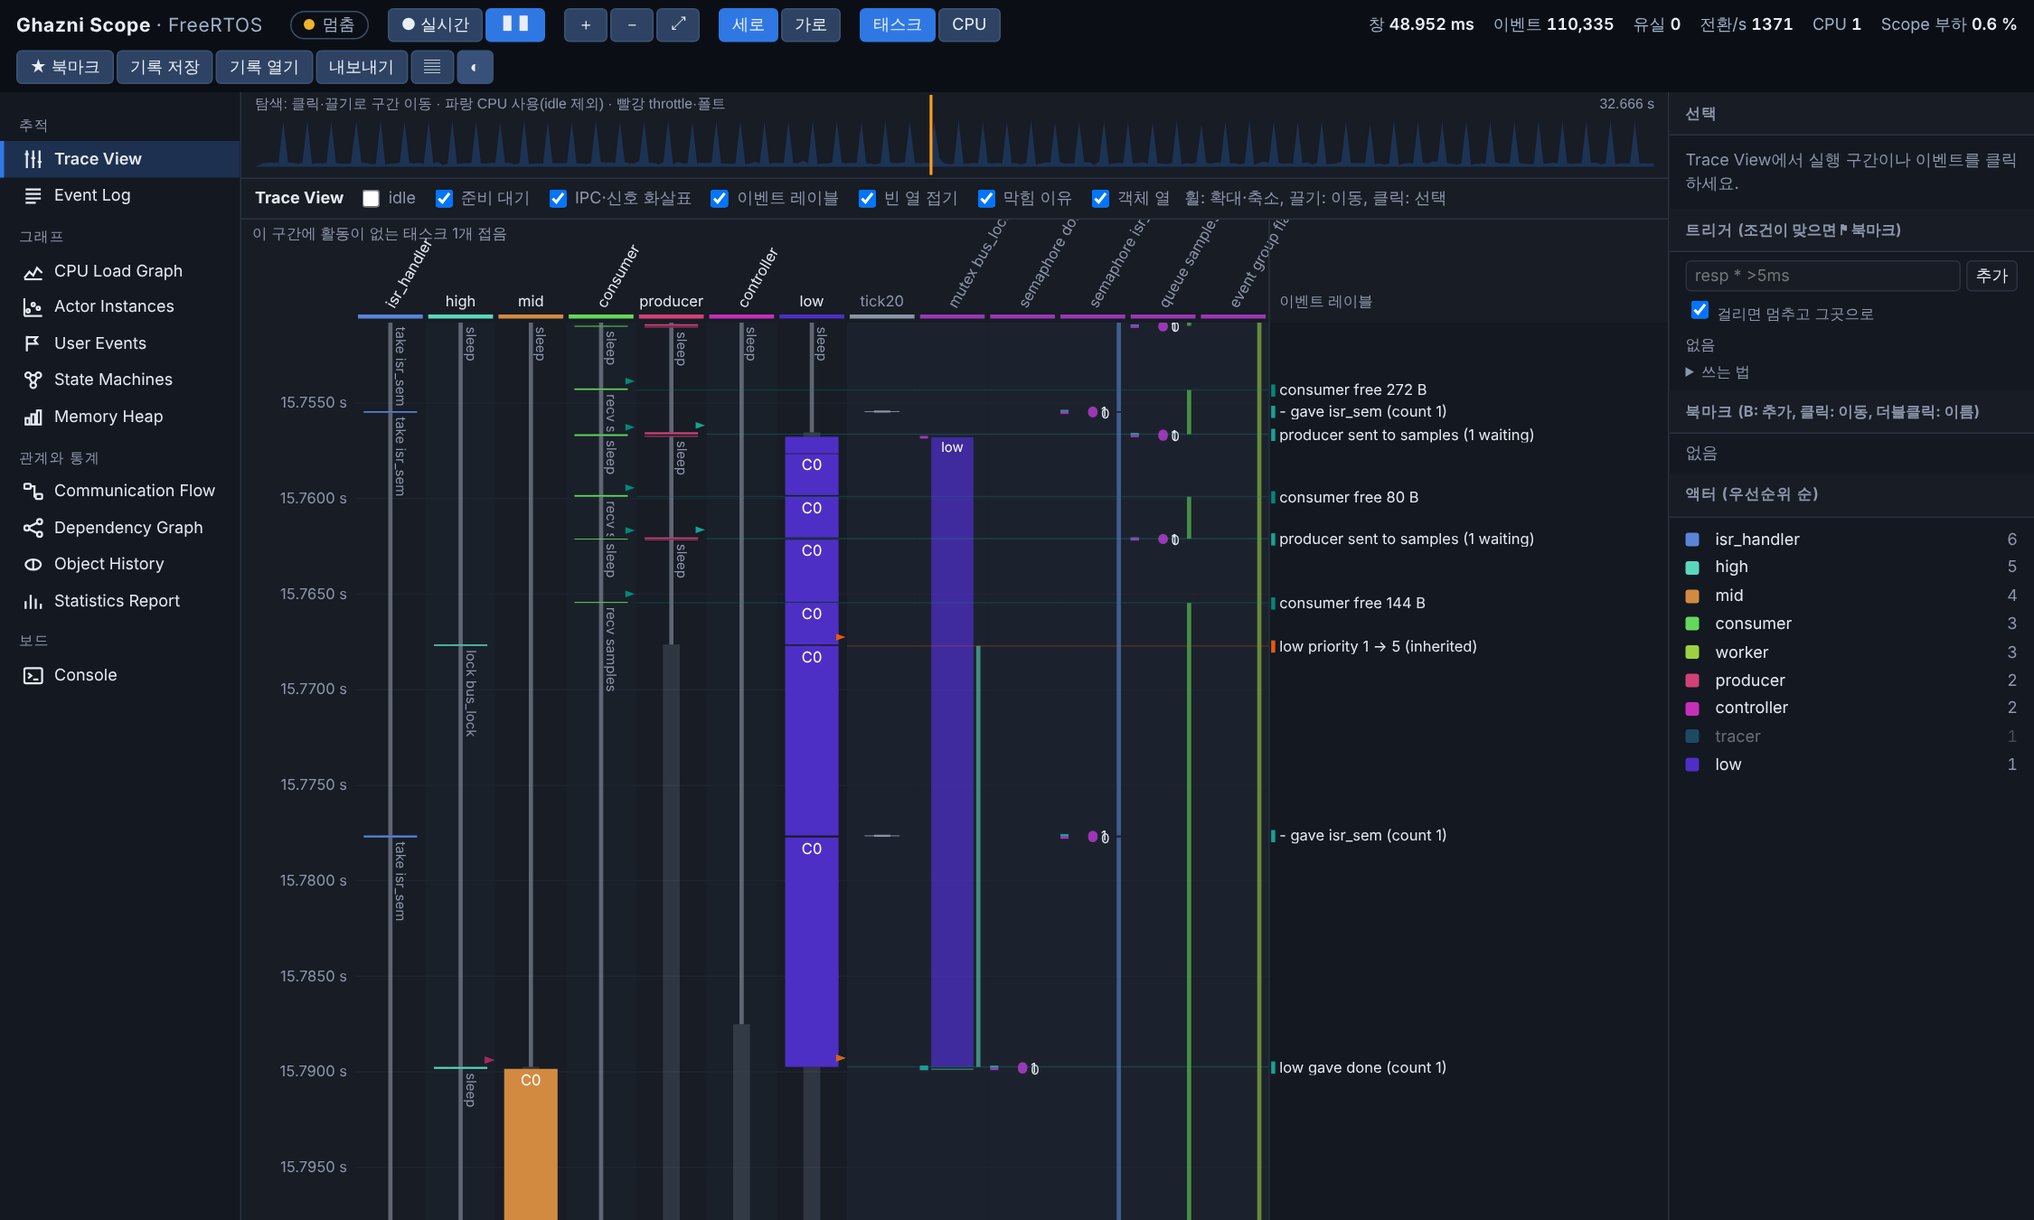
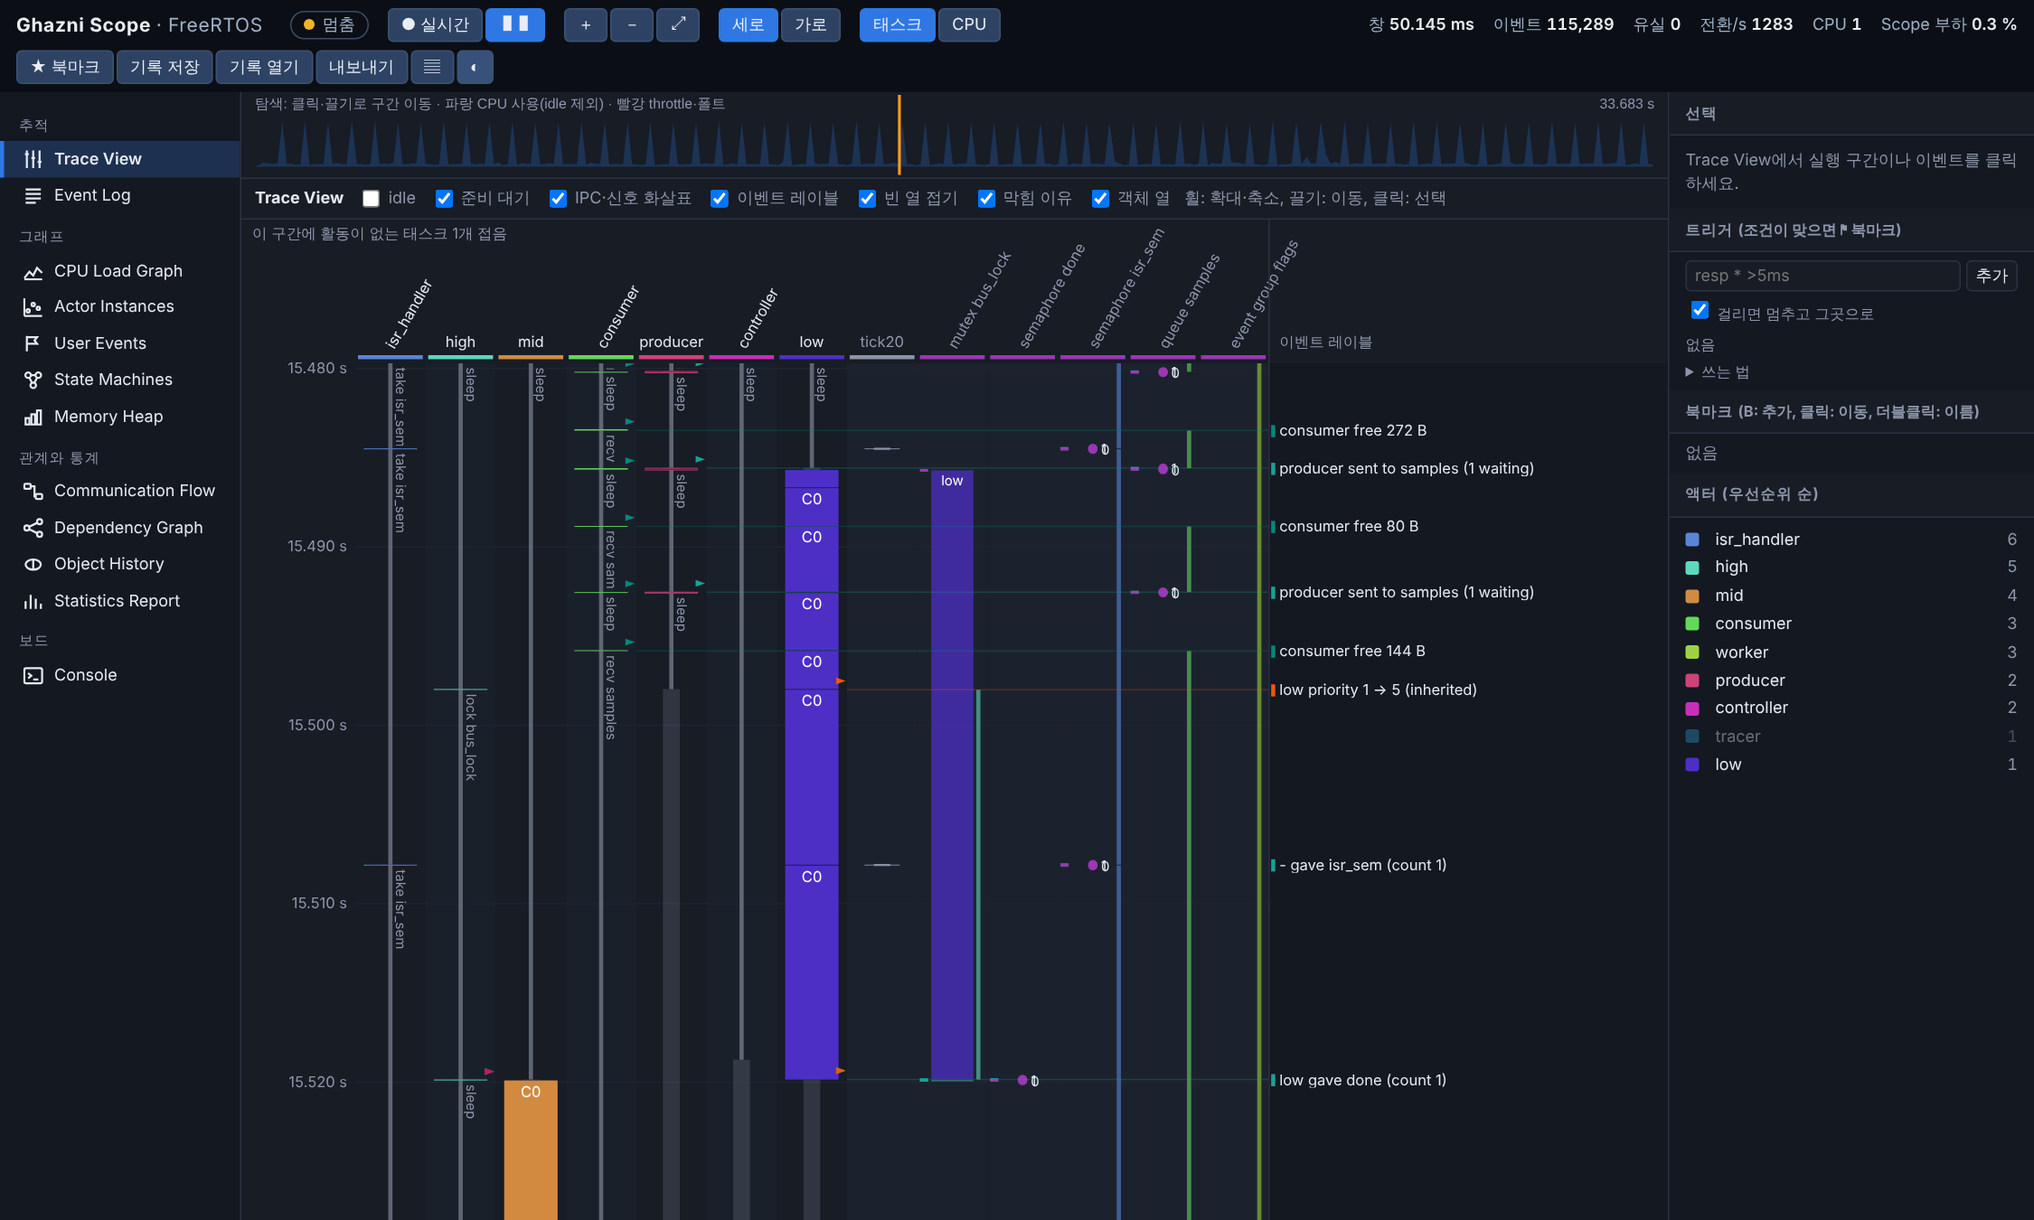
Trace header fits the longest name; heap graph without start-up allocations; browser test in CI (0.2.1)
- Trace View: names written at an angle (tasks, interrupts, objects) were
  cut off at the top; the header now grows to the longest one (up to
  170 px)
- Memory Heap: allocations outside tasks (stacks and queues made before
  the scheduler) are left out of the graph by default, so the tasks' own
  small allocations show; a check box brings them back, tables unchanged
- Dependency Graph text per system
- tests/test_ui.js (Playwright): every view draws without a JavaScript
  error, layouts and options switch, the angled names fit, a trigger
  hits, no Ghazni-only text on a FreeRTOS stream; fails on the previous
  page (header). CI runs it on the checkout and on the installed package.
- screenshots retaken; captions without per-run numbers

Claude-Session: https://claude.ai/code/session_019Vy9gdUpGEKKDr7Rfd53kq

diff --git a/ghazni_scope/web/index.html b/ghazni_scope/web/index.html
@@ -223,13 +223,14 @@ svg text { font: 11px -apple-system, "Segoe UI", "Noto Sans KR", sans-serif; }
         <div class="scroll" style="display:grid;grid-template-columns:1fr 1fr;gap:0 12px;align-content:start"><table id="smTab"></table><table id="smTr"></table></div></div>
     </section>
     <section class="view" id="v-heap">
-      <div class="vbar"><b>Memory Heap</b> <span id="hHeap">할당기가 알린 할당·해제: 사용량 변화와 아직 해제되지 않은 블록</span> <span class="hint">처음엔 마지막 활동 구간. 끌어서 확대, 더블클릭: 전체 기록 ↔ 마지막 활동</span><button class="csv" data-csv="heapTab,heapLive,heapWarn">CSV</button></div>
+      <div class="vbar"><b>Memory Heap</b> <span id="hHeap">할당기가 알린 할당·해제: 사용량 변화와 아직 해제되지 않은 블록</span> <span class="hint">처음엔 마지막 활동 구간. 끌어서 확대, 더블클릭: 전체 기록 ↔ 마지막 활동</span>
+        <label title="스케줄러 시작 전·커널의 할당(대개 태스크 스택과 큐)은 크고 변하지 않아서 태스크의 작은 할당을 바닥에 눌러 버립니다. 표에는 그대로 나옵니다"><input type="checkbox" id="heapOut" checked> 태스크 밖 할당은 그래프에서 빼기</label><button class="csv" data-csv="heapTab,heapLive,heapWarn">CSV</button></div>
       <div class="vbody" style="display:grid;grid-template-rows:minmax(120px,48%) 1fr">
         <div style="position:relative"><canvas id="cHeap"></canvas></div>
         <div class="scroll" style="display:grid;grid-template-columns:1fr 1.2fr;gap:0 12px;align-content:start"><table id="heapTab" style="align-self:start"></table><table id="heapLive"></table><table id="heapWarn" style="grid-column:1/-1;margin-top:10px"></table></div></div>
     </section>
     <section class="view" id="v-deps">
-      <div class="vbar"><b>Dependency Graph</b> <span>태스크가 누구를 기다리나: CALL(클라이언트 → 서버, 응답까지 기다린 시간)과 signal(보낸 태스크 → 깨어난 태스크). 선 굵기 = 횟수</span></div>
+      <div class="vbar"><b>Dependency Graph</b> <span id="hDeps">태스크가 누구를 깨우고 누구를 기다리나. 선 굵기 = 횟수</span></div>
       <div class="vbody scroll"><svg id="sDeps" width="100%"></svg></div>
     </section>
     <section class="view" id="v-comm">
@@ -310,12 +311,14 @@ function osText() {
   return D.os === "Ghazni" ? {
     user: '태스크의 <code>ghazni_trace_user(channel, value)</code>(값), <code>ghazni_trace_printf</code>(글), 셸 <code>mark</code>',
     sm: '태스크의 <code>ghazni_trace_state(machine, "STATE")</code>: 상태가 언제 바뀌었고 얼마나 머물렀는지',
+    deps: '태스크가 누구를 기다리나: CALL(클라이언트 → 서버, 응답까지 기다린 시간)과 signal(보낸 태스크 → 깨어난 태스크). 선 굵기 = 횟수',
     heap: '할당기가 알린 할당·해제(<code>ghazni_trace_heap</code>, 미들웨어 <code>malloc</code>): 사용량 변화와 아직 해제되지 않은 블록',
     cmd: "셸 명령 (예: ps, hog, bench 1000, mark 1 42)",
     userEmpty: "(셸: mark 1 42)", smEmpty: "(셸: tdemo)", heapEmpty: "(셸: tdemo, 또는 미들웨어 태스크)",
   } : {
     user: '태스크의 <code>scope_user(channel, value)</code>(값), <code>scope_printf</code>(글)',
     sm: '태스크의 <code>scope_state(machine, "STATE")</code>: 상태가 언제 바뀌었고 얼마나 머물렀는지',
+    deps: '태스크가 누구를 깨우나: 큐에 보내거나 세마포어·mutex·이벤트 그룹을 주어서 기다리던 태스크를 깨운 횟수(보낸 태스크 → 깨어난 태스크). 선 굵기 = 횟수',
     heap: '<code>pvPortMalloc</code> / <code>vPortFree</code>: 사용량 변화와 아직 해제되지 않은 블록. "(태스크 밖)" = 스케줄러 시작 전이나 인터럽트에서 할당',
     cmd: "타깃으로 보낼 글 (프로그램의 표준 입력·UART)",
     userEmpty: "(scope_user)", smEmpty: "(scope_state)", heapEmpty: "(pvPortMalloc)",
@@ -323,7 +326,7 @@ function osText() {
 }
 function osTexts() {
   const o = osText();
-  $("hUser").innerHTML = o.user; $("hSm").innerHTML = o.sm; $("hHeap").innerHTML = o.heap; $("cmd").placeholder = o.cmd;
+  $("hUser").innerHTML = o.user; $("hSm").innerHTML = o.sm; $("hDeps").innerHTML = o.deps; $("hHeap").innerHTML = o.heap; $("cmd").placeholder = o.cmd;
 }
 const heapName = id => id === 0xFE ? "(태스크 밖)" : tname(id);
 function objLabel(k, i) {               // "mutex pi_lock", "semaphore pi_done", "queue samples", "ep pong"
@@ -529,7 +532,7 @@ function drawTrace() {
     if (few.length) { drawTrace.folded = cols.length - few.length; cols = few; } else drawTrace.folded = 0;
   } else drawTrace.folded = 0;
   const showLabels = vert && $("oLabels").checked;
-  const RULER = vert ? 84 : 110, HEAD = vert ? 76 : 40, LAB = showLabels ? Math.min(300, Math.max(180, w * 0.28)) : 0;
+  const RULER = vert ? 84 : 110, LAB = showLabels ? Math.min(300, Math.max(180, w * 0.28)) : 0;
   // one column per interrupt seen in the window (the kernel timer included)
   const irqSet = new Set();
   for (let i = lowerBound(D.isr, 0, win.t0 - 0.05); i < D.isr.length && D.isr[i][0] <= win.t1; i++) irqSet.add(D.isr[i][2]);
@@ -561,9 +564,20 @@ function drawTrace() {
   const objBase = cols.length + irqIds.length;
   const objCol = new Map(objs.map((o, k) => [o.k + o.i, objBase + k]));
   const nCols = cols.length + irqIds.length + objs.length;
+  // vertical: a name wider than its column is written at 60 degrees; the header is as
+  // tall as the longest such name needs (up to 170 px), so none is cut off
+  let HEAD = vert ? 76 : 40;
+  const across0 = vert ? w - RULER - LAB : h - HEAD;
+  const cw = Math.max(8, Math.min(vert ? 96 : 30, across0 / Math.max(1, nCols)));
+  if (vert) {
+    const names = cols.map(id => byCpu ? "CPU " + id : tname(id))
+      .concat(irqIds.map(id => id < 0 ? "IRQ" : ((D.objects.irqs || {})[id] || "IRQ " + id)), objs.map(o => objLabel(o.k, o.i)));
+    let tall = 0;
+    for (const n of names) { const wd = g.measureText(n).width; if (wd > cw - 4) tall = Math.max(tall, wd * 0.87 + 18); }
+    HEAD = Math.round(Math.min(170, Math.max(76, tall)));
+  }
   const along = vert ? h - HEAD : w - RULER - 10;       // time axis length in px
   const across = vert ? w - RULER - LAB : h - HEAD;
-  const cw = Math.max(8, Math.min(vert ? 96 : 30, across / Math.max(1, nCols)));
   const T = t => (t - win.t0) / (win.t1 - win.t0) * along;
   const tOf = px => win.t0 + px / along * (win.t1 - win.t0);
   traceGeom = { RULER, HEAD, cw, along, cols, tOf, LAB, w, nCols };
@@ -1097,13 +1111,15 @@ function drawSm() {
 function drawHeap() {
   const { g, w, h } = fit($("cHeap"));
   g.clearRect(0, 0, w, h);
-  const tasks = [...new Set(D.heap.map(x => x[1]))];
+  let tasks = [...new Set(D.heap.map(x => x[1]))];
+  if ($("heapOut").checked && tasks.some(t => t !== 0xFE)) tasks = tasks.filter(t => t !== 0xFE);
+  const shown = new Set(tasks), hv = D.heap.filter(x => shown.has(x[1]));
   const L = 70, B = 24, T0 = 16;
-  const first = D.heap.length ? D.heap[0][0] : 0, last = D.heap.length ? D.heap[D.heap.length - 1][0] : 0;
+  const first = hv.length ? hv[0][0] : 0, last = hv.length ? hv[hv.length - 1][0] : 0;
   let tMin = first - (last - first) * 0.03, tMax = Math.max(last + (last - first) * 0.15, tMin + 1e-3);
-  if (zoomR.heap === null) [tMin, tMax] = burstRange(D.heap.map(x => x[0]));
+  if (zoomR.heap === null) [tMin, tMax] = burstRange(hv.map(x => x[0]));
   else if (Array.isArray(zoomR.heap)) [tMin, tMax] = zoomR.heap;
-  let vmax = 1; for (const x of D.heap) vmax = Math.max(vmax, x[5]);
+  let vmax = 1; for (const x of hv) vmax = Math.max(vmax, x[5]);
   vmax *= 1.1;
   const X = t => L + (t - tMin) / (tMax - tMin) * (w - L - 14), Y = v => h - B - v / vmax * (h - B - T0);
   drawHeap.geom = { L, R: w - 14, tMin, tMax };
@@ -1370,7 +1386,7 @@ $("bCpus").onclick = () => { byCpu = true; $("bCpus").classList.add("on"); $("bT
 $("bDetail").onclick = () => { $("app").classList.toggle("nodetail"); dirty(); };
 $("bTheme").onclick = () => { for (const k in cssCache) delete cssCache[k]; const r = document.documentElement, d = r.dataset.theme === "dark" ||
   (!r.dataset.theme && matchMedia("(prefers-color-scheme: dark)").matches); r.dataset.theme = d ? "light" : "dark"; dirty(); };
-["oIdle", "oReady", "oComm", "oLabels", "instMetric", "instLog", "instWin", "logWin", "objSel", "smWin", "oActive", "oBlk", "oObj"].forEach(id => $(id).onchange = dirty);
+["oIdle", "oReady", "oComm", "oLabels", "instMetric", "instLog", "instWin", "logWin", "objSel", "smWin", "oActive", "oBlk", "oObj", "heapOut"].forEach(id => $(id).onchange = dirty);
 $("logFind").oninput = dirty;
 $("logScroll").onscroll = renderLog;
 $("legend").onclick = ev => { const d = ev.target.closest("[data-task]"); if (!d) return; const id = +d.dataset.task;
@@ -1575,7 +1591,7 @@ document.querySelectorAll("button.csv").forEach(b => b.onclick = () => {
 });
 
 // ------------------------------------------------------------------ settings kept in the browser
-const PREF_IDS = ["oIdle", "oReady", "oComm", "oLabels", "oActive", "oBlk", "oObj", "instLog", "instWin", "logWin", "smWin", "trigPause"];
+const PREF_IDS = ["oIdle", "oReady", "oComm", "oLabels", "oActive", "oBlk", "oObj", "heapOut", "instLog", "instWin", "logWin", "smWin", "trigPause"];
 function savePrefs() {
   try { localStorage.setItem("gzscope.prefs", JSON.stringify({
     checks: Object.fromEntries(PREF_IDS.map(id => [id, $(id).checked])), metric: $("instMetric").value,

diff --git a/tests/test_ui.js b/tests/test_ui.js
@@ -1,0 +1,108 @@
+// The browser page against a live FreeRTOS stream (examples/freertos-posix):
+// every view opens without a JavaScript error and draws something, the
+// layouts and options switch cleanly, and no text meant for Ghazni shows up
+// on a FreeRTOS stream.
+//   node tests/test_ui.js [demo]       (npm i playwright; npx playwright install chromium)
+// The tool: this checkout's package, or (SCOPE_INSTALLED=1) the installed command.
+const { chromium } = require('playwright');
+const { spawn } = require('child_process');
+const net = require('net');
+const path = require('path');
+
+const ROOT = path.resolve(__dirname, '..');
+const DEMO = process.argv[2] || path.join(ROOT, 'examples/freertos-posix/build/demo');
+let fails = 0;
+function check(name, ok, detail) {
+  console.log(`  [${ok ? 'PASS' : 'FAIL'}] ${name}${ok ? '' : ': ' + JSON.stringify(detail).slice(0, 400)}`);
+  if (!ok) fails++;
+}
+const freePort = () => new Promise(res => { const s = net.createServer().listen(0, () => { const p = s.address().port; s.close(() => res(p)); }); });
+const sleep = ms => new Promise(r => setTimeout(r, ms));
+
+(async () => {
+  const port = await freePort();
+  const installed = !!process.env.SCOPE_INSTALLED;
+  const cmd = installed ? 'ghazni-scope' : 'python3';
+  const args = (installed ? [] : ['-m', 'ghazni_scope']).concat(['--exec', DEMO, '--port', String(port), '--quiet']);
+  const env = Object.assign({}, process.env, installed ? {} : { PYTHONPATH: ROOT });
+  const tool = spawn(cmd, args, { env, stdio: 'ignore' });
+  console.log('=== web page (FreeRTOS on Linux, live) ===');
+  const browser = await chromium.launch();
+  try {
+    const page = await browser.newPage({ viewport: { width: 1400, height: 850 } });
+    const errors = [];
+    page.on('pageerror', e => errors.push(String(e)));
+    page.on('console', m => { if (m.type() === 'error') errors.push(m.text()); });
+    for (let i = 0; i < 50; i++) { try { await page.goto(`http://127.0.0.1:${port}/`); break; } catch (e) { await sleep(200); } }
+    await page.waitForFunction(() => typeof D !== "undefined" && D.events && D.events.length > 3000, null, { timeout: 30000 });
+    check('page loads, live stream arrives, title shows FreeRTOS',
+      await page.evaluate(() => document.getElementById('osName').textContent.includes('FreeRTOS')), null);
+
+    // a canvas that drew something: more than one colour in it
+    const inked = id => page.evaluate(id => {
+      const c = document.getElementById(id), g = c.getContext('2d');
+      if (!c.width || !c.height) return 0;
+      const d = g.getImageData(0, 0, c.width, c.height).data, seen = new Set();
+      for (let i = 0; i < d.length; i += 4 * 97) seen.add(d[i] << 16 | d[i + 1] << 8 | d[i + 2] | d[i + 3] << 24);
+      return seen.size;
+    }, id);
+    const rows = sel => page.evaluate(sel => document.querySelectorAll(sel).length, sel);
+    const views = [
+      ['trace', () => inked('cTrace'), n => n > 5],
+      ['log', () => rows('#logTab tr'), n => n > 10],
+      ['load', () => inked('cLoad'), n => n > 3],
+      ['inst', () => inked('cInst'), n => n > 3],
+      ['user', () => inked('cUser'), n => n > 3],
+      ['sm', () => inked('cSm'), n => n > 3],
+      ['heap', () => inked('cHeap'), n => n > 3],
+      ['deps', () => rows('#sDeps circle, #sDeps rect, #sDeps ellipse'), n => n >= 3],
+      ['comm', () => rows('#sComm ellipse'), n => n >= 5],
+      ['obj', () => rows('#objTab tr'), n => n > 5],
+      ['stats', () => rows('#statTab tr'), n => n > 8],
+      ['console', () => page.evaluate(() => document.getElementById('console').textContent.length), n => n > 10],
+    ];
+    await page.click('#bPause');
+    for (const [v, measure, ok] of views) {
+      await page.click(`nav a[data-v=${v}]`);
+      await sleep(700);
+      const n = await measure();
+      check(`view ${v}: drawn (${n}), no error`, ok(n) && !errors.length, { n, errors });
+    }
+    // layouts and options
+    await page.click('nav a[data-v=trace]');
+    for (const [btn, what] of [['#bHorz', 'horizontal'], ['#bVert', 'vertical'], ['#bCpus', 'columns = CPUs'],
+                               ['#bTasks', 'columns = tasks'], ['#bTheme', 'dark'], ['#bTheme', 'light'], ['#bFit', 'whole record']]) {
+      await page.click(btn); await sleep(400);
+      check(`trace: ${what}`, (await inked('cTrace')) > 5 && !errors.length, errors);
+    }
+    // the names above the columns fit in the header (none cut off at the top)
+    const head = await page.evaluate(() => {
+      const g = document.getElementById('cTrace').getContext('2d');
+      g.font = "11px -apple-system, Segoe UI, Noto Sans KR, sans-serif";
+      const { cw, HEAD } = traceGeom, names = Object.values(D.tasks).map(t => t.name)
+        .concat((D.objects.notifications || []).map((n, i) => objLabel('nt', i)));
+      const need = Math.max(...names.map(n => { const w = g.measureText(n).width; return w > cw - 4 ? w * 0.87 + 10 : 0; }));
+      return { HEAD, need };
+    });
+    check('trace: column names at an angle fit in the header', head.need <= head.HEAD, head);
+    await page.click('nav a[data-v=heap]');
+    await page.click('#heapOut'); await sleep(400);
+    check('heap: allocations outside tasks shown again', (await inked('cHeap')) > 3 && !errors.length, errors);
+    await page.click('#heapOut');
+    // trigger: added, hits counted, no error
+    await page.fill('#trigIn', 'isr * >0us'); await page.click('#trigAdd');
+    await page.click('#bLive'); await sleep(2500);
+    const hits = await page.evaluate(() => D.triggers.map(t => t.hits));
+    check('trigger added and hit', hits.length === 1 && hits[0] > 0 && !errors.length, { hits, errors });
+    // nothing meant for Ghazni on a FreeRTOS stream
+    const text = await page.evaluate(() => document.body.innerText + ' ' +
+      [...document.querySelectorAll('input[placeholder]')].map(i => i.placeholder).join(' '));
+    const ghazni = ['ghazni_trace', 'uart_drv', '셸:', 'ntfn ', 'notification '].filter(w => text.includes(w));
+    check('no Ghazni-only text on a FreeRTOS stream', ghazni.length === 0, ghazni);
+  } finally {
+    await browser.close();
+    tool.kill();
+  }
+  console.log(fails ? `${fails} FAILED` : 'ALL PASS');
+  process.exit(fails ? 1 : 0);
+})().catch(e => { console.error(e); process.exit(1); });

diff --git a/ghazni_scope/__init__.py b/ghazni_scope/__init__.py
@@ -1,2 +1,2 @@
 """Ghazni Scope: live RTOS trace viewer (Ghazni, FreeRTOS). MIT License."""
-__version__ = "0.2.0"
+__version__ = "0.2.1"

diff --git a/README.md b/README.md
@@ -111,6 +111,7 @@ third_party/          FreeRTOS-Kernel (서브모듈, V11.3.3, MIT)
 ```sh
 make test-host        # PC 도구만: 프레임 해석, 분석 모델, C 인코더와 Python 해석기가 맞는지
 make test             # + FreeRTOS를 Linux와 Cortex-M3(QEMU)에서 실제로 돌려 확인
+make test-ui          # 브라우저로 화면 12개를 열어 오류 없이 그려지는지 (node, playwright 필요)
 ```
 
 `tests/run_freertos.py`는 예제를 실제로 돌려 받은 스트림에서 다음을 확인합니다: 유실 0, 모든 태스크 이름, 객체 이름과 종류(큐 1, mutex 1, 세마포어 2, 이벤트 그룹 1), 막힌 이유(consumer는 큐, high는 mutex, worker는 이벤트 그룹, isr_handler는 세마포어), mutex를 잡은 태스크와 시간, 매 주기 우선순위 상속(1 → 5 → 1), 큐에 쌓인 개수, 세마포어 개수, 20 ms마다 들어오는 인터럽트와 처리 시간, printf 글·상태 기계·사용자 값, 힙, 스택 사용량. GitHub Actions가 푸시마다 돌리며, 저장소에서 바로 돌린 것과 `pip install`로 설치한 것 둘 다 시험합니다.

diff --git a/CHANGELOG.md b/CHANGELOG.md
@@ -1,5 +1,12 @@
 # 변경 이력
 
+## 0.2.1
+
+- Trace View: 비스듬히 쓴 열 이름(태스크, 인터럽트, 객체)이 잘리지 않게 머리 부분 높이를 가장 긴 이름에 맞춤
+- Memory Heap: 태스크 밖 할당(스케줄러 시작 전의 스택·큐)은 그래프에서 기본으로 뺌(체크 상자, 표에는 그대로). 태스크의 작은 할당이 보임
+- Dependency Graph 설명을 보고 있는 OS에 맞게
+- 시험: 브라우저 시험 `tests/test_ui.js`(Playwright, CI): 화면 12개가 오류 없이 그려지는지, 가로·CPU 열·어두운 화면·전체 보기, 열 이름이 머리에 들어가는지, 트리거, FreeRTOS 스트림에 Ghazni 전용 글이 없는지. 저장소 그대로와 설치한 패키지 둘 다
+
 ## 0.2.0
 
 **독립 설치 패키지**
